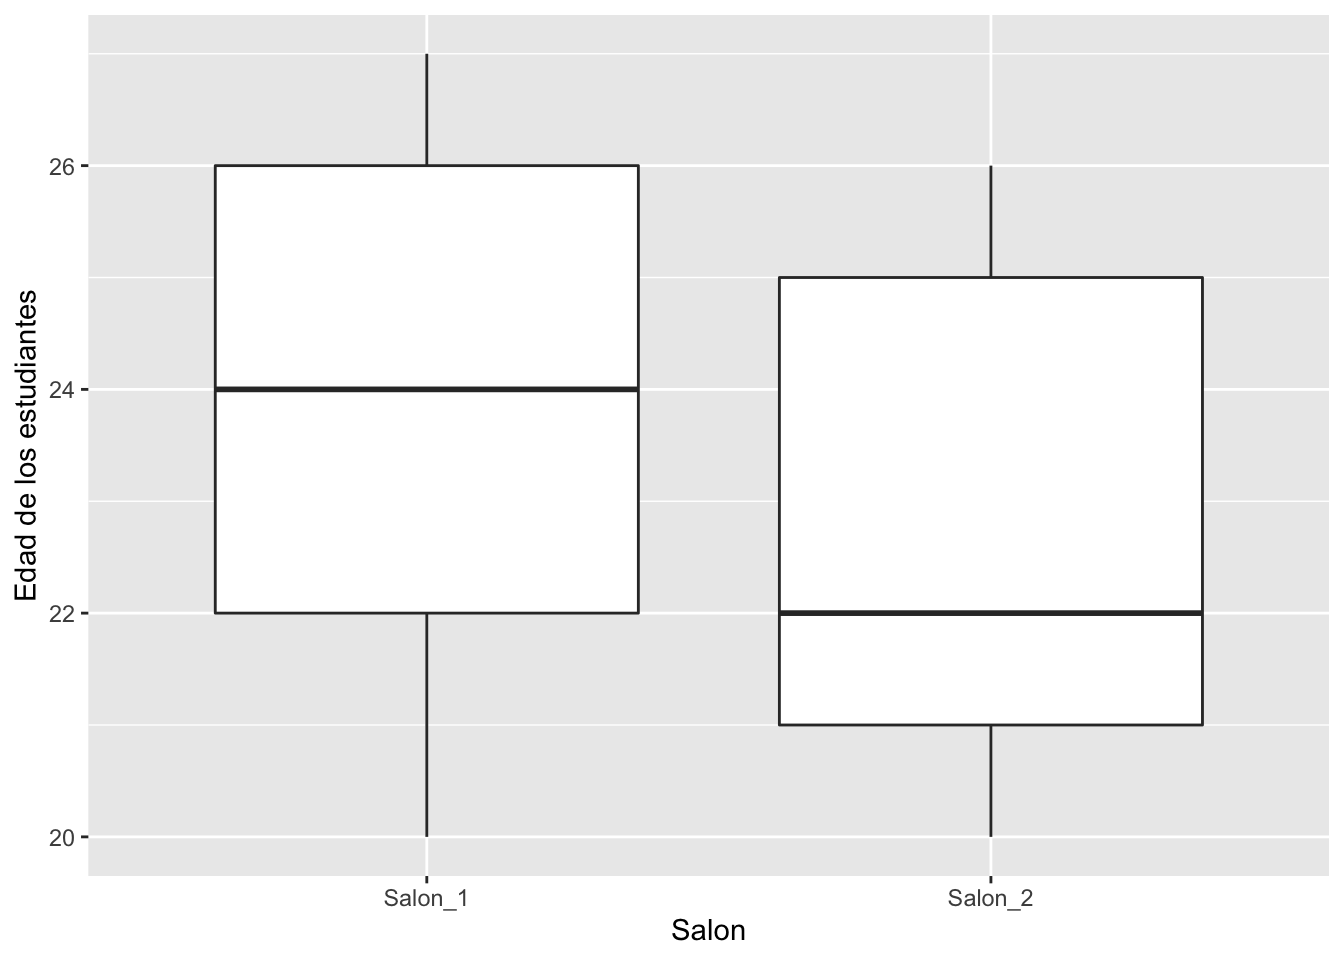
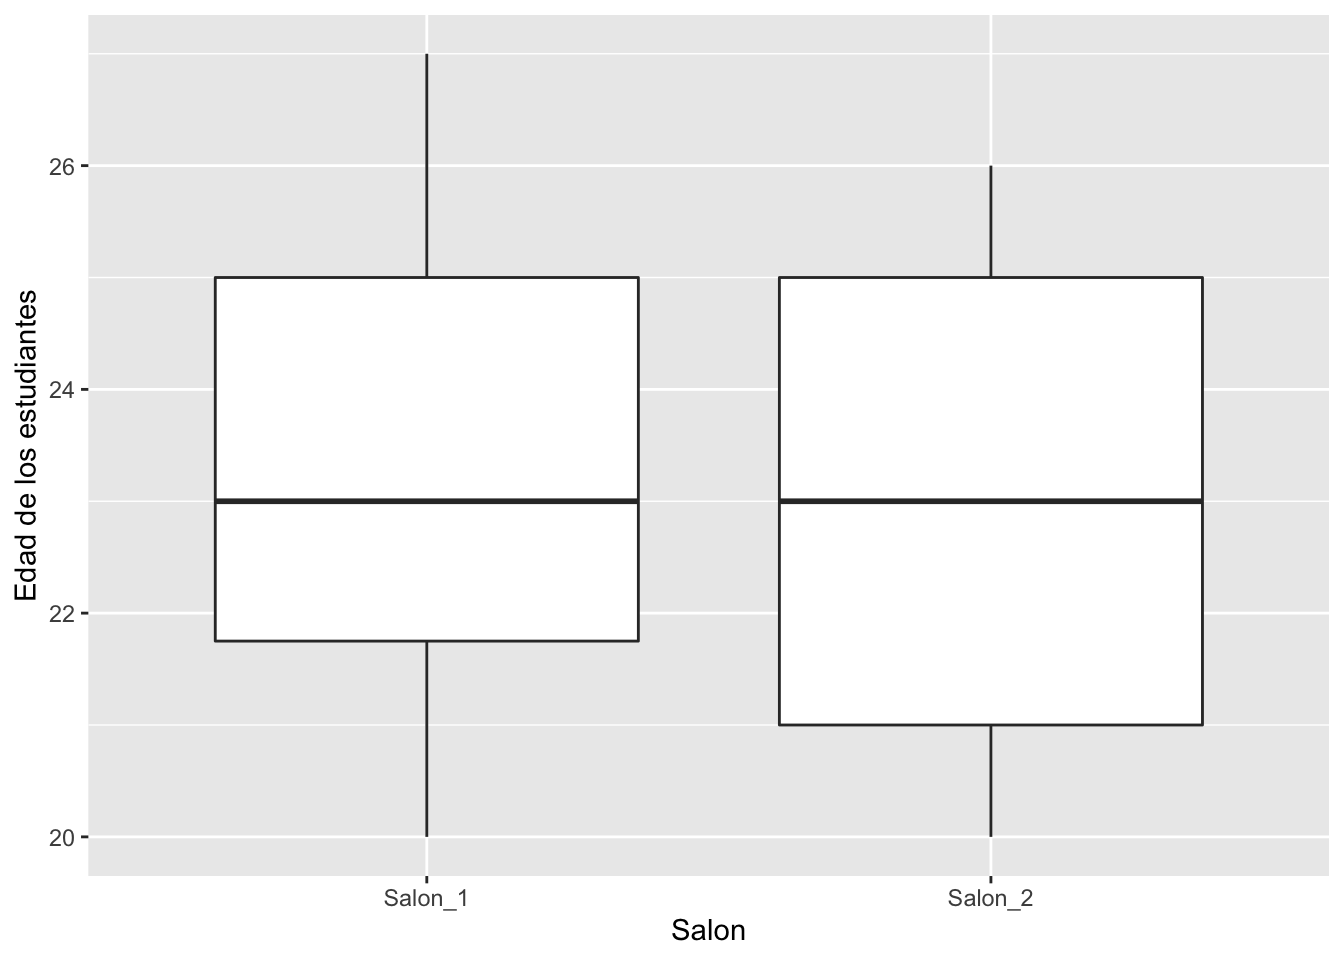
facet wrap

diff --git a/G1-ggplot2.html b/G1-ggplot2.html
@@ -415,6 +415,9 @@ div.tocify {
     <li>
       <a href="G9_Facet_Grid.html">Facet Grid</a>
     </li>
+    <li>
+      <a href="G10_Facet_wrap.html">Facet Wrap</a>
+    </li>
   </ul>
 </li>
 <li class="dropdown">
@@ -501,16 +504,16 @@ div.tocify {
 <p>La visualización de datos tiene como objetivo facilitar la apreciación de datos y determinar si existe patrones. Naturalmente, no se necesita gráficos para entender ciertas ideas. Por ejemplo si un estudiantes tiene 25 años un otro estudiante tiene 20 años. No hay que hacer un gráfico para entender que hay 5 años de diferencia entre uno y el otro. Se hace gráficos típicamente cuando hay muchos datos y hay solapamiento entre los valores. Si por ejemplo yo menciono que la edad de los estudiantes el un salón de pre escolar es de cerca de 5 años y el primer año universitario es de 19 años es fácil percibir la diferencia entender la diferencia entre estos grupos. Pero si describe de dos salones de estudiantes en la universidad pudiese haber solapamiento entre las edades de los estudiantes y determinar si la edad de estos estudiantes es igual o diferente no es tan evidentes. Si uno pone una lista de las edades de los estudiantes de estos salones, uno pudiese tratar de entenderlos si es igual o diferentes mirando la lista.</p>
 <p>Por ejemplo trata de explicar cual es la diferencia (si hay) en las dos listas siguientes.</p>
 <pre><code>## $V1
-##   [1] 23 25 22 22 25 24 22 20 20 20 20 23 23 21 25 26 22 24 27 27 24 23 26 26 23
-##  [26] 22 22 26 26 26 25 25 27 25 22 27 25 27 26 21 27 20 27 23 27 20 22 25 22 23
-##  [51] 27 24 22 27 24 27 24 26 27 27 20 22 20 22 24 23 25 22 23 23 27 27 22 26 27
-##  [76] 24 27 26 22 27 25 23 26 25 24 20 20 26 24 23 23 26 21 26 24 27 21 21 21 22</code></pre>
+##   [1] 22 21 26 27 21 22 20 21 24 25 24 24 27 26 26 23 21 24 25 25 23 26 27 27 20
+##  [26] 22 20 22 23 27 26 22 22 22 27 24 22 20 23 21 22 24 22 23 24 23 26 20 27 22
+##  [51] 21 20 21 20 21 23 25 24 25 20 22 25 24 24 25 22 20 20 27 21 27 23 26 27 24
+##  [76] 24 24 21 27 25 21 24 25 21 22 22 27 24 20 20 22 24 23 24 23 25 24 22 20 23</code></pre>
 <hr />
 <pre><code>## $V1
-##   [1] 23 22 20 25 21 22 21 20 20 22 20 26 26 21 24 21 26 23 20 26 26 23 24 25 22
-##  [26] 20 24 25 21 21 24 25 25 21 22 26 20 26 24 24 21 22 25 25 22 24 22 25 21 25
-##  [51] 21 26 24 21 23 24 20 20 21 21 25 20 26 25 26 21 24 20 22 23 20 21 26 22 25
-##  [76] 21 21 24 24 23 21 25 23 22 25 21 20 23 22 26 20 22 22 20 20 21 22 22 21 25</code></pre>
+##   [1] 26 23 22 21 20 25 25 23 21 25 26 21 23 25 25 21 22 21 23 25 25 21 26 26 26
+##  [26] 25 24 21 25 24 26 21 26 25 21 26 25 23 23 21 20 24 24 26 22 20 25 22 20 23
+##  [51] 21 20 22 26 20 25 22 20 23 23 26 26 20 25 22 25 20 26 24 22 23 21 22 20 24
+##  [76] 20 21 20 24 22 21 20 23 25 23 20 22 22 20 22 22 24 24 24 25 26 24 26 23 24</code></pre>
 <p>Probablemente no es evidente a primera vista cual es la diferencia entre las dos listas de datos.</p>
 <hr />
 <div id="resumir-la-información-en-tablas" class="section level2">
@@ -879,13 +882,13 @@ div.tocify {
   <tbody class="gt_table_body">
     <tr>
       <td class="gt_row gt_left">Salon_1</td>
-      <td class="gt_row gt_right">23.93</td>
+      <td class="gt_row gt_right">23.27</td>
       <td class="gt_row gt_center">20</td>
       <td class="gt_row gt_center">27</td>
     </tr>
     <tr>
       <td class="gt_row gt_left">Salon_2</td>
-      <td class="gt_row gt_right">22.72</td>
+      <td class="gt_row gt_right">23.04</td>
       <td class="gt_row gt_center">20</td>
       <td class="gt_row gt_center">26</td>
     </tr>

diff --git a/2_Activity_R4DS.html b/2_Activity_R4DS.html
@@ -339,6 +339,9 @@ $(document).ready(function () {
     <li>
       <a href="G9_Facet_Grid.html">Facet Grid</a>
     </li>
+    <li>
+      <a href="G10_Facet_wrap.html">Facet Wrap</a>
+    </li>
   </ul>
 </li>
 <li class="dropdown">

diff --git a/404.html b/404.html
@@ -338,6 +338,9 @@ $(document).ready(function () {
     <li>
       <a href="G9_Facet_Grid.html">Facet Grid</a>
     </li>
+    <li>
+      <a href="G10_Facet_wrap.html">Facet Wrap</a>
+    </li>
   </ul>
 </li>
 <li class="dropdown">

diff --git a/Descripción.html b/Descripción.html
@@ -338,6 +338,9 @@ $(document).ready(function () {
     <li>
       <a href="G9_Facet_Grid.html">Facet Grid</a>
     </li>
+    <li>
+      <a href="G10_Facet_wrap.html">Facet Wrap</a>
+    </li>
   </ul>
 </li>
 <li class="dropdown">

diff --git a/E5-supuestos.html b/E5-supuestos.html
@@ -339,6 +339,9 @@ $(document).ready(function () {
     <li>
       <a href="G9_Facet_Grid.html">Facet Grid</a>
     </li>
+    <li>
+      <a href="G10_Facet_wrap.html">Facet Wrap</a>
+    </li>
   </ul>
 </li>
 <li class="dropdown">

diff --git a/E8-Tipos_de_Datos.html b/E8-Tipos_de_Datos.html
@@ -339,6 +339,9 @@ $(document).ready(function () {
     <li>
       <a href="G9_Facet_Grid.html">Facet Grid</a>
     </li>
+    <li>
+      <a href="G10_Facet_wrap.html">Facet Wrap</a>
+    </li>
   </ul>
 </li>
 <li class="dropdown">

diff --git a/schedule.html b/schedule.html
@@ -339,6 +339,9 @@ $(document).ready(function () {
     <li>
       <a href="G9_Facet_Grid.html">Facet Grid</a>
     </li>
+    <li>
+      <a href="G10_Facet_wrap.html">Facet Wrap</a>
+    </li>
   </ul>
 </li>
 <li class="dropdown">

diff --git a/E1-Introducción.html b/E1-Introducción.html
@@ -414,6 +414,9 @@ div.tocify {
     <li>
       <a href="G9_Facet_Grid.html">Facet Grid</a>
     </li>
+    <li>
+      <a href="G10_Facet_wrap.html">Facet Wrap</a>
+    </li>
   </ul>
 </li>
 <li class="dropdown">

diff --git a/E2-Historia.html b/E2-Historia.html
@@ -414,6 +414,9 @@ div.tocify {
     <li>
       <a href="G9_Facet_Grid.html">Facet Grid</a>
     </li>
+    <li>
+      <a href="G10_Facet_wrap.html">Facet Wrap</a>
+    </li>
   </ul>
 </li>
 <li class="dropdown">

diff --git a/E3-TallerRFE_I.html b/E3-TallerRFE_I.html
@@ -416,6 +416,9 @@ div.tocify {
     <li>
       <a href="G9_Facet_Grid.html">Facet Grid</a>
     </li>
+    <li>
+      <a href="G10_Facet_wrap.html">Facet Wrap</a>
+    </li>
   </ul>
 </li>
 <li class="dropdown">

diff --git a/E4-Graficos.html b/E4-Graficos.html
@@ -415,6 +415,9 @@ div.tocify {
     <li>
       <a href="G9_Facet_Grid.html">Facet Grid</a>
     </li>
+    <li>
+      <a href="G10_Facet_wrap.html">Facet Wrap</a>
+    </li>
   </ul>
 </li>
 <li class="dropdown">

diff --git a/E6-TallerRFE_II.html b/E6-TallerRFE_II.html
@@ -416,6 +416,9 @@ div.tocify {
     <li>
       <a href="G9_Facet_Grid.html">Facet Grid</a>
     </li>
+    <li>
+      <a href="G10_Facet_wrap.html">Facet Wrap</a>
+    </li>
   </ul>
 </li>
 <li class="dropdown">
